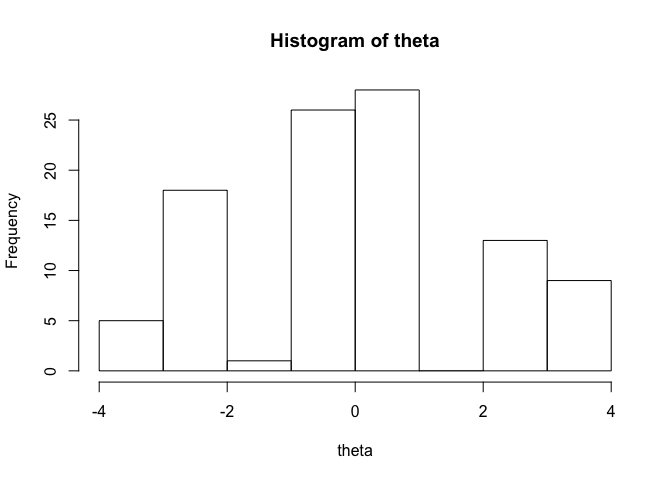
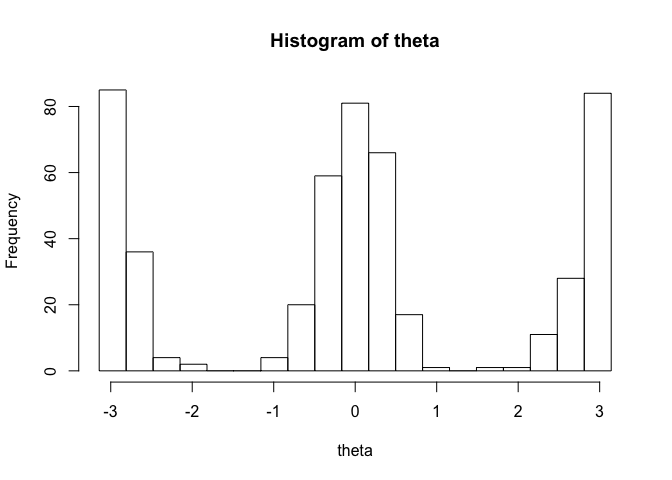
fix angle calculation

diff --git a/documents/direction_bias.md b/documents/direction_bias.md
@@ -71,10 +71,161 @@ source(here::here("R", "expose_helpers_stan.R"))
     ## line found on '/Users/skuchar/Projects/EyeTracking/DMEM/stan/helpers/
     ## direction_bias_rng.stan'
 
+    ## Trying to compile a simple C file
+
+    ## Running /Library/Frameworks/R.framework/Resources/bin/R CMD SHLIB foo.c
+    ## clang -I"/Library/Frameworks/R.framework/Resources/include" -DNDEBUG   -I"/Library/Frameworks/R.framework/Versions/3.6/Resources/library/Rcpp/include/"  -I"/Library/Frameworks/R.framework/Versions/3.6/Resources/library/RcppEigen/include/"  -I"/Library/Frameworks/R.framework/Versions/3.6/Resources/library/RcppEigen/include/unsupported"  -I"/Library/Frameworks/R.framework/Versions/3.6/Resources/library/BH/include" -I"/Library/Frameworks/R.framework/Versions/3.6/Resources/library/StanHeaders/include/src/"  -I"/Library/Frameworks/R.framework/Versions/3.6/Resources/library/StanHeaders/include/"  -I"/Library/Frameworks/R.framework/Versions/3.6/Resources/library/rstan/include" -DEIGEN_NO_DEBUG  -D_REENTRANT  -DBOOST_DISABLE_ASSERTS -DBOOST_PENDING_INTEGER_LOG2_HPP -include stan/math/prim/mat/fun/Eigen.hpp   -isysroot /Library/Developer/CommandLineTools/SDKs/MacOSX.sdk -I/usr/local/include  -fPIC  -isysroot /Library/Developer/CommandLineTools/SDKs/MacOSX.sdk -c foo.c -o foo.o
+    ## In file included from <built-in>:1:
+    ## In file included from /Library/Frameworks/R.framework/Versions/3.6/Resources/library/StanHeaders/include/stan/math/prim/mat/fun/Eigen.hpp:13:
+    ## In file included from /Library/Frameworks/R.framework/Versions/3.6/Resources/library/RcppEigen/include/Eigen/Dense:1:
+    ## In file included from /Library/Frameworks/R.framework/Versions/3.6/Resources/library/RcppEigen/include/Eigen/Core:88:
+    ## /Library/Frameworks/R.framework/Versions/3.6/Resources/library/RcppEigen/include/Eigen/src/Core/util/Macros.h:613:1: error: unknown type name 'namespace'
+    ## namespace Eigen {
+    ## ^
+    ## /Library/Frameworks/R.framework/Versions/3.6/Resources/library/RcppEigen/include/Eigen/src/Core/util/Macros.h:613:16: error: expected ';' after top level declarator
+    ## namespace Eigen {
+    ##                ^
+    ##                ;
+    ## In file included from <built-in>:1:
+    ## In file included from /Library/Frameworks/R.framework/Versions/3.6/Resources/library/StanHeaders/include/stan/math/prim/mat/fun/Eigen.hpp:13:
+    ## In file included from /Library/Frameworks/R.framework/Versions/3.6/Resources/library/RcppEigen/include/Eigen/Dense:1:
+    ## /Library/Frameworks/R.framework/Versions/3.6/Resources/library/RcppEigen/include/Eigen/Core:96:10: fatal error: 'complex' file not found
+    ## #include <complex>
+    ##          ^~~~~~~~~
+    ## 3 errors generated.
+    ## make: *** [foo.o] Error 1
+
 ``` r
-theta <- vector(length = 100)
-for(i in 1:100) theta[i] <- mixture_von_mises_rng(c(0.5, 0.5), c(0, pi), c(8, 8))
-hist(theta)
+mvonmises <- function(x, weights, mu, kappa){
+  lpdf <- sapply(x, function(a) mixture_von_mises_lpdf(a, weights, mu, kappa))
+  
+  exp(lpdf)
+}
+
+theta <- vector(length = 1000)
+for(i in 1:1000) theta[i] <- mixture_von_mises_rng(c(0.5, 0.5), c(0, pi), c(8, 8))
+hist(theta, breaks = seq(-pi, pi, length.out = 50), freq = FALSE, main = "von Mises mixture")
+curve(mvonmises(x = x, weights = c(0.5, 0.5), mu = c(0, pi), kappa = c(8, 8)), from = -pi, to = pi, add = TRUE)
 ```
 
-![](direction_bias_files/figure-gfm/unnamed-chunk-1-1.png)<!-- -->
+![](direction_bias_files/figure-gfm/unnamed-chunk-2-1.png)<!-- -->
+
+``` r
+stan_model <- rstan::stan_model(here::here("stan", "examples", "mixture_von_mises_single.stan"), isystem = here::here())
+```
+
+    ## Trying to compile a simple C file
+
+    ## Running /Library/Frameworks/R.framework/Resources/bin/R CMD SHLIB foo.c
+    ## clang -I"/Library/Frameworks/R.framework/Resources/include" -DNDEBUG   -I"/Library/Frameworks/R.framework/Versions/3.6/Resources/library/Rcpp/include/"  -I"/Library/Frameworks/R.framework/Versions/3.6/Resources/library/RcppEigen/include/"  -I"/Library/Frameworks/R.framework/Versions/3.6/Resources/library/RcppEigen/include/unsupported"  -I"/Library/Frameworks/R.framework/Versions/3.6/Resources/library/BH/include" -I"/Library/Frameworks/R.framework/Versions/3.6/Resources/library/StanHeaders/include/src/"  -I"/Library/Frameworks/R.framework/Versions/3.6/Resources/library/StanHeaders/include/"  -I"/Library/Frameworks/R.framework/Versions/3.6/Resources/library/rstan/include" -DEIGEN_NO_DEBUG  -D_REENTRANT  -DBOOST_DISABLE_ASSERTS -DBOOST_PENDING_INTEGER_LOG2_HPP -include stan/math/prim/mat/fun/Eigen.hpp   -isysroot /Library/Developer/CommandLineTools/SDKs/MacOSX.sdk -I/usr/local/include  -fPIC  -isysroot /Library/Developer/CommandLineTools/SDKs/MacOSX.sdk -c foo.c -o foo.o
+    ## In file included from <built-in>:1:
+    ## In file included from /Library/Frameworks/R.framework/Versions/3.6/Resources/library/StanHeaders/include/stan/math/prim/mat/fun/Eigen.hpp:13:
+    ## In file included from /Library/Frameworks/R.framework/Versions/3.6/Resources/library/RcppEigen/include/Eigen/Dense:1:
+    ## In file included from /Library/Frameworks/R.framework/Versions/3.6/Resources/library/RcppEigen/include/Eigen/Core:88:
+    ## /Library/Frameworks/R.framework/Versions/3.6/Resources/library/RcppEigen/include/Eigen/src/Core/util/Macros.h:613:1: error: unknown type name 'namespace'
+    ## namespace Eigen {
+    ## ^
+    ## /Library/Frameworks/R.framework/Versions/3.6/Resources/library/RcppEigen/include/Eigen/src/Core/util/Macros.h:613:16: error: expected ';' after top level declarator
+    ## namespace Eigen {
+    ##                ^
+    ##                ;
+    ## In file included from <built-in>:1:
+    ## In file included from /Library/Frameworks/R.framework/Versions/3.6/Resources/library/StanHeaders/include/stan/math/prim/mat/fun/Eigen.hpp:13:
+    ## In file included from /Library/Frameworks/R.framework/Versions/3.6/Resources/library/RcppEigen/include/Eigen/Dense:1:
+    ## /Library/Frameworks/R.framework/Versions/3.6/Resources/library/RcppEigen/include/Eigen/Core:96:10: fatal error: 'complex' file not found
+    ## #include <complex>
+    ##          ^~~~~~~~~
+    ## 3 errors generated.
+    ## make: *** [foo.o] Error 1
+
+``` r
+stan_data  <- list(N_obs = length(theta), angle = theta, mu_angle = c(0, pi))
+
+stan_fit   <- rstan::sampling(stan_model, stan_data, chains = 4, cores = 4, warmup = 500, iter = 1000, refresh = 0)
+
+stan_fit
+```
+
+    ## Inference for Stan model: mixture_von_mises_single.
+    ## 4 chains, each with iter=1000; warmup=500; thin=1; 
+    ## post-warmup draws per chain=500, total post-warmup draws=2000.
+    ## 
+    ##           mean se_mean   sd     2.5%      25%      50%      75%    97.5% n_eff
+    ## kappa     8.06    0.01 0.34     7.40     7.81     8.05     8.29     8.71   543
+    ## lp__  -1092.72    0.02 0.69 -1094.49 -1092.89 -1092.46 -1092.27 -1092.22   944
+    ##       Rhat
+    ## kappa 1.01
+    ## lp__  1.01
+    ## 
+    ## Samples were drawn using NUTS(diag_e) at Mon May 25 18:44:18 2020.
+    ## For each parameter, n_eff is a crude measure of effective sample size,
+    ## and Rhat is the potential scale reduction factor on split chains (at 
+    ## convergence, Rhat=1).
+
+``` r
+xy <- matrix(NA, nrow = 1000, ncol = 2)
+
+
+for(i in 1:nrow(xy)){
+  x <- ifelse(i == 1, 400, xy[i-1, 1])
+  y <- ifelse(i == 1, 300, xy[i-1, 2])
+  xy[i,] <- direction_bias_rng(c(0.5, 0.5), c(0, pi), c(8, 8), x, y, 0, 800, 0, 600)
+}
+
+plot(xy, pch = 19, xlab = "x", ylab = "y")
+lines(xy)
+```
+
+![](direction_bias_files/figure-gfm/unnamed-chunk-4-1.png)<!-- -->
+
+``` r
+stan_model <- rstan::stan_model(here::here("stan", "examples", "direction_bias_single.stan"), isystem = here::here())
+```
+
+    ## Trying to compile a simple C file
+
+    ## Running /Library/Frameworks/R.framework/Resources/bin/R CMD SHLIB foo.c
+    ## clang -I"/Library/Frameworks/R.framework/Resources/include" -DNDEBUG   -I"/Library/Frameworks/R.framework/Versions/3.6/Resources/library/Rcpp/include/"  -I"/Library/Frameworks/R.framework/Versions/3.6/Resources/library/RcppEigen/include/"  -I"/Library/Frameworks/R.framework/Versions/3.6/Resources/library/RcppEigen/include/unsupported"  -I"/Library/Frameworks/R.framework/Versions/3.6/Resources/library/BH/include" -I"/Library/Frameworks/R.framework/Versions/3.6/Resources/library/StanHeaders/include/src/"  -I"/Library/Frameworks/R.framework/Versions/3.6/Resources/library/StanHeaders/include/"  -I"/Library/Frameworks/R.framework/Versions/3.6/Resources/library/rstan/include" -DEIGEN_NO_DEBUG  -D_REENTRANT  -DBOOST_DISABLE_ASSERTS -DBOOST_PENDING_INTEGER_LOG2_HPP -include stan/math/prim/mat/fun/Eigen.hpp   -isysroot /Library/Developer/CommandLineTools/SDKs/MacOSX.sdk -I/usr/local/include  -fPIC  -isysroot /Library/Developer/CommandLineTools/SDKs/MacOSX.sdk -c foo.c -o foo.o
+    ## In file included from <built-in>:1:
+    ## In file included from /Library/Frameworks/R.framework/Versions/3.6/Resources/library/StanHeaders/include/stan/math/prim/mat/fun/Eigen.hpp:13:
+    ## In file included from /Library/Frameworks/R.framework/Versions/3.6/Resources/library/RcppEigen/include/Eigen/Dense:1:
+    ## In file included from /Library/Frameworks/R.framework/Versions/3.6/Resources/library/RcppEigen/include/Eigen/Core:88:
+    ## /Library/Frameworks/R.framework/Versions/3.6/Resources/library/RcppEigen/include/Eigen/src/Core/util/Macros.h:613:1: error: unknown type name 'namespace'
+    ## namespace Eigen {
+    ## ^
+    ## /Library/Frameworks/R.framework/Versions/3.6/Resources/library/RcppEigen/include/Eigen/src/Core/util/Macros.h:613:16: error: expected ';' after top level declarator
+    ## namespace Eigen {
+    ##                ^
+    ##                ;
+    ## In file included from <built-in>:1:
+    ## In file included from /Library/Frameworks/R.framework/Versions/3.6/Resources/library/StanHeaders/include/stan/math/prim/mat/fun/Eigen.hpp:13:
+    ## In file included from /Library/Frameworks/R.framework/Versions/3.6/Resources/library/RcppEigen/include/Eigen/Dense:1:
+    ## /Library/Frameworks/R.framework/Versions/3.6/Resources/library/RcppEigen/include/Eigen/Core:96:10: fatal error: 'complex' file not found
+    ## #include <complex>
+    ##          ^~~~~~~~~
+    ## 3 errors generated.
+    ## make: *** [foo.o] Error 1
+
+``` r
+stan_data  <- list(N_obs = nrow(xy), x = xy[,1], y = xy[,2])
+
+stan_fit   <- rstan::sampling(stan_model, stan_data, chains = 4, cores = 4, warmup = 500, iter = 1000, refresh = 250)
+
+print(stan_fit)
+```
+
+    ## Inference for Stan model: direction_bias_single.
+    ## 4 chains, each with iter=1000; warmup=500; thin=1; 
+    ## post-warmup draws per chain=500, total post-warmup draws=2000.
+    ## 
+    ##            mean se_mean   sd      2.5%       25%       50%       75%     97.5%
+    ## kappa      8.36    0.01 0.35      7.70      8.12      8.37      8.61      9.08
+    ## lp__  -10004.16    0.03 0.69 -10006.12 -10004.31 -10003.90 -10003.72 -10003.67
+    ##       n_eff Rhat
+    ## kappa   762    1
+    ## lp__    696    1
+    ## 
+    ## Samples were drawn using NUTS(diag_e) at Mon May 25 18:46:42 2020.
+    ## For each parameter, n_eff is a crude measure of effective sample size,
+    ## and Rhat is the potential scale reduction factor on split chains (at 
+    ## convergence, Rhat=1).
